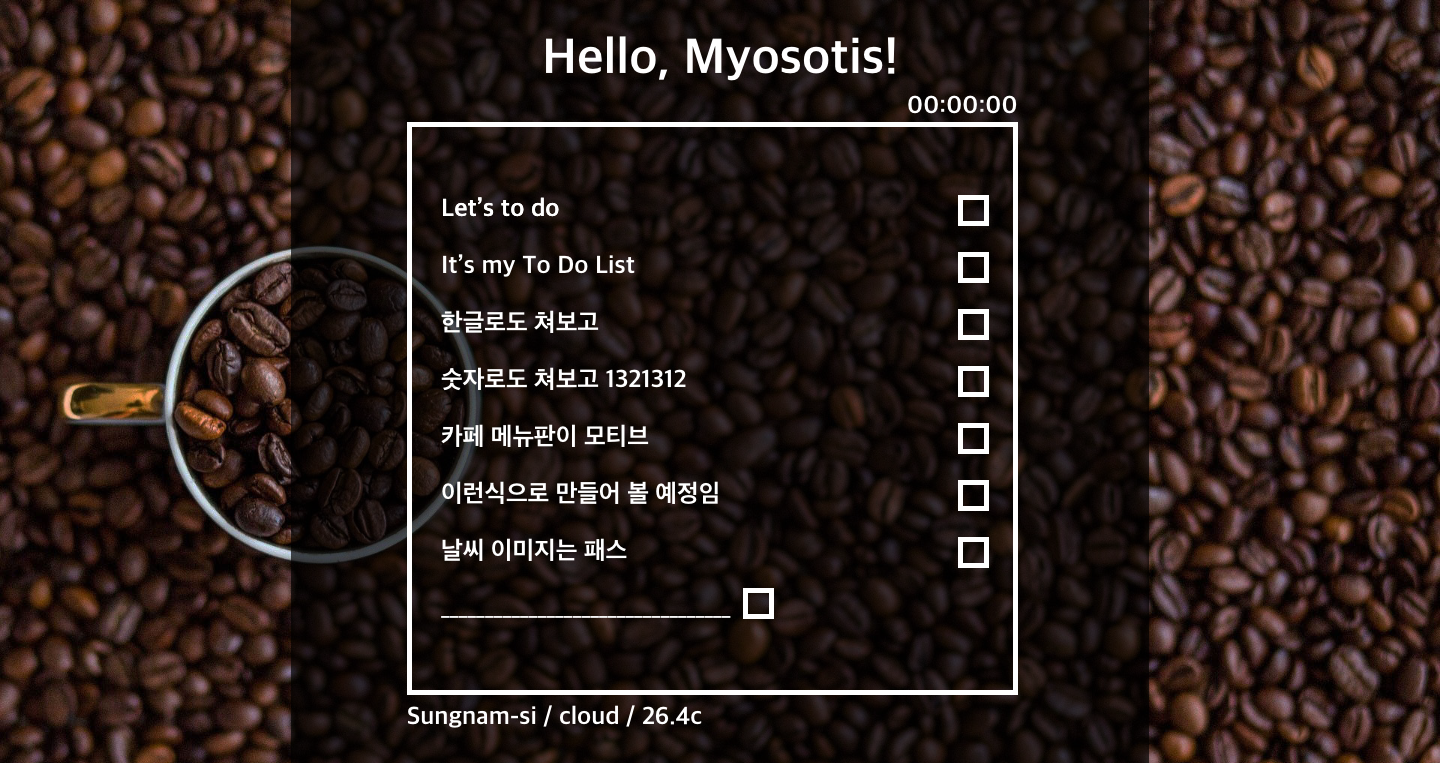
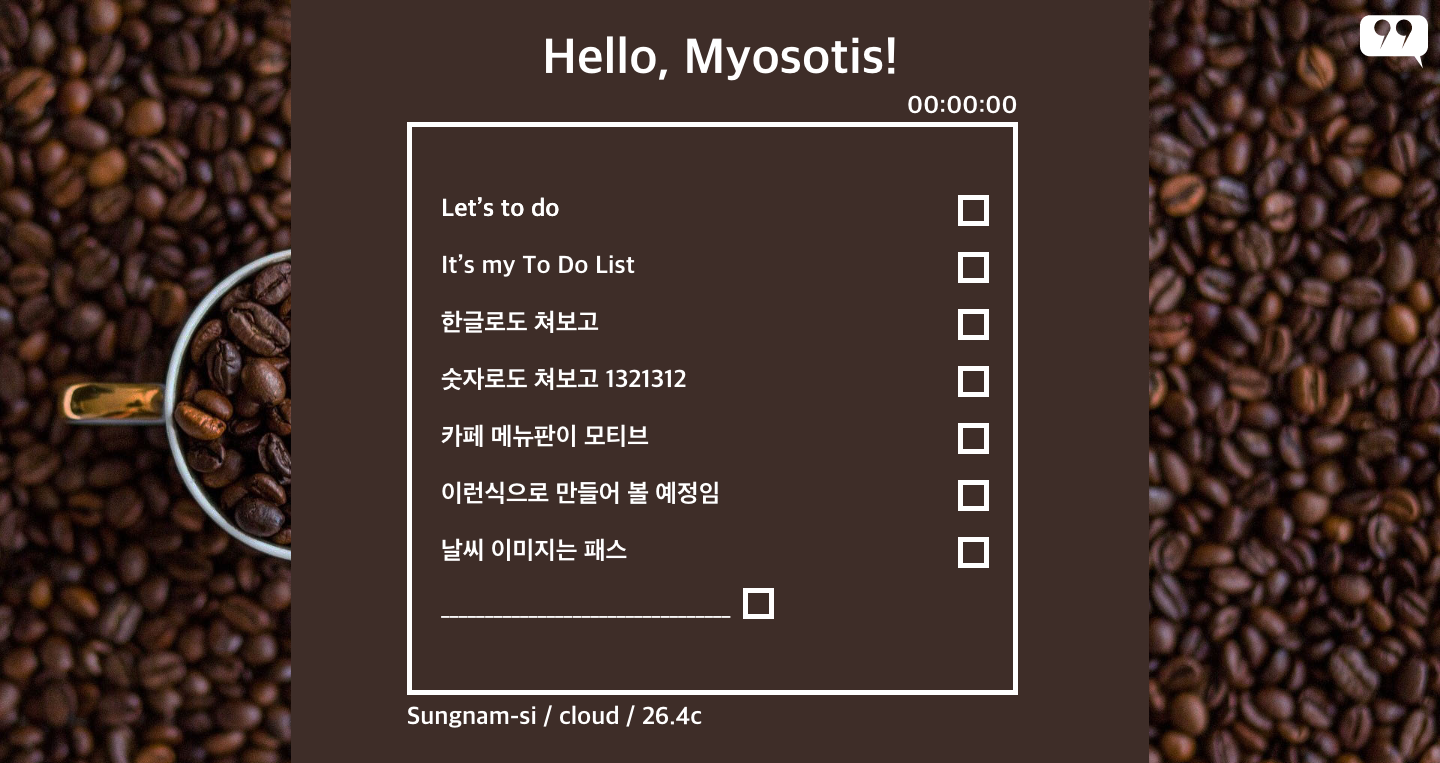
add README.md

diff --git a/css/style.css b/css/style.css
@@ -13,16 +13,7 @@ body {
     Oxygen, Ubuntu, Cantarell, "Open Sans", "Helvetica Neue", sans-serif;
 }
 
-#background {
-  margin: 0;
-}
-
-#background img {
-  position: absolute;
-  z-index: 1;
-  width: 100vw;
-  height: 100vh;
-}
+/* list background */
 
 main {
   display: flex;
@@ -37,6 +28,8 @@ main {
   min-height: 100vh;
   background-color: #3e2d28;
 }
+
+/* greeting & username */
 
 #name-container {
   display: flex;
@@ -68,11 +61,15 @@ main {
   text-decoration: line-through;
 }
 
+/* 주요 컨텐츠 (시계, 리스트, 날씨) */
+
 #main-contents_section {
   display: flex;
   align-items: center;
   justify-content: center;
 }
+
+/* clock */
 
 #clock-container {
   width: 621px;
@@ -122,6 +119,8 @@ main {
 .fa-regular {
   font-size: 25px;
 }
+
+/* todolist - input */
 
 #todo-form {
   margin-top: 15px;
@@ -183,7 +182,7 @@ main {
   justify-content: space-between;
 }
 
-/* sidebar */
+/* quotes sidebar */
 
 aside {
   z-index: 11;
@@ -262,7 +261,8 @@ aside {
   cursor: pointer;
 }
 
-/* splash */
+/* login - splash */
+
 @keyframes splash-hidden {
   to {
     visibility: hidden;
@@ -312,7 +312,6 @@ aside {
   justify-content: center;
 }
 
-/* 애니메이션 */
 .splash-none {
   animation: splash-width 3s ease-out forwards;
 }
@@ -339,7 +338,6 @@ aside {
   align-items: center;
 }
 
-/* 애니메이션 */
 .splash_logo_anime {
   animation: logo-down 1.8s ease-in-out forwards;
 }
@@ -355,6 +353,8 @@ aside {
   text-align: center;
   font-family: "Times New Roman", Times, serif;
 }
+
+/* login input */
 
 #splash_question {
   margin-top: 20px;
@@ -373,7 +373,6 @@ aside {
   position: relative;
 }
 
-/* 애니메이션 */
 .splash_question_form_anime {
   animation: splash-opacity 0.5s ease-in-out forwards;
 }
@@ -422,6 +421,8 @@ aside {
   color: white;
 }
 
+/* media query ~800px */
+
 @media screen and (max-width: 800px) {
   #background-contents {
     width: 100vw;
@@ -462,6 +463,8 @@ aside {
     padding-right: 3px;
   }
 }
+
+/* media query _mobile */
 
 @media screen and (max-width: 425px) {
   #todo-form input {

diff --git a/js/backround.js b/js/backround.js
@@ -1,6 +1,4 @@
 const images = ["img/0.jpeg", "img/1.jpeg", "img/2.jpeg", "img/3.jpeg"];
 const randomBgImg = images[Math.floor(Math.random() * images.length)];
 
-// const backgroundImg = document.createElement("img");
-// backgroundImg.src = randomBgImg;
 document.body.style.backgroundImage = `url(${randomBgImg})`;

diff --git a/index.html b/index.html
@@ -33,7 +33,6 @@
       </div>
     </div>
     <!-- 리스트 창 -->
-    <div id="background"></div>
     <main>
       <div id="background-contents">
         <div id="name-container">

diff --git a/README.md b/README.md
@@ -1,0 +1,141 @@
+# Cafe To do : 노마드코더 바닐라 JS 실습
+
+---
+
+프로젝트 이름: Cafe To Do<br />
+제작기간: 2022.08.31 ~ 2022.09.05<br />
+사용언어: HTML, CSS, Javascript
+
+---
+
+## 프로젝트 설명
+
+![투두리스트 시안.png](/%ED%88%AC%EB%91%90%EB%A6%AC%EC%8A%A4%ED%8A%B8%20%EC%8B%9C%EC%95%88.png)
+Cafe To Do 홈페이지는 학습 목적으로 제작된 To Do List 홈페이지입니다. <b>카페 메뉴판</b>을 컨셉으로 제작하였으며, 위의 이미지는 제작에 들어가기 앞서 adobe xd로 단순하게 디자인 해 본 시안입니다. 각각의 설명은 다음과 같습니다.<br />
+
+> - 배경 이미지는 새로고침 할 때마다 4개의 이미지가 랜덤으로 출력됩니다.
+> - 가장 위에 오게되는 Hello, Myosotis!은 유저 이름이 오는 위치입니다. 이름을 클릭할 경우 로그아웃됩니다.
+> - 흰색 박스 위에는 현재 날짜와 시간이 오게됩니다.
+> - 박스 안은 본격적인 할 일(to do list)를 작성하는 창입니다.
+> - 체크 박스를 클릭할 경우 할 일 리스트가 제거됩니다.
+> - 밑줄은 새로운 텍스트를 입력하는 창입니다. 입력 후 버튼을 누르면 할 일 리스트에 추가됩니다.
+> - 박스 아래에는 현재 위치와 날씨, 기온이 오게됩니다.
+> - 화면의 우측 위에는 명언을 볼 수 있는 버튼이 오게됩니다. 마우스가 올라가면 명언이 출력됩니다.
+
+이외에도 별도의 로그인 창이 존재하며, 로그인 창은 로고와 페이지 이름, 유저 이름을 적는 입력창과 버튼으로 구분되어있습니다.
+
+본 프로젝트는 노마드 코더의 '코코아톡 클론코딩'과 '바닐라 JS로 크롬 앱 만들기'의 복습을 목적으로 시작되었습니다. 여러 코드를 일부러 시도해보고 지우고를 반복해야하는 만큼 학습상의 편의를 위해 파일간 디테일한 구분에는 다소 소홀한 면이 있습니다.
+
+특히 css파일의 경우 screen, component 구분 없이 [style.css](./css/style.css)에 모두 묶여있으니 참고 바랍니다.
+
+또한 깃 허브 첫 업로드는 9월 2일로 제작 중반부터 업로드된 만큼 프로젝트의 모든 변화과정이 담겨있지는 않다는 점 역시 참고 바랍니다. 다음은 각 파일에 대한 간략한 설명과 해당 파일을 제작할 때 필자가 중요하게 여겼던 부분에 대한 개략적인 설명입니다.
+
+---
+
+# HTML
+
+본 프로젝트에서 제작한 html 파일에는 [index.html](./index.html) 파일이 있습니다.
+
+## index.html
+
+index.html파일은 페이지의 전체적인 레이아웃을 구상하며 작성되었습니다. index.html의 각 구역을 살펴보기 수월하도록 나누면 다음과 같이 나눌 수 있습니다.
+
+> - #splash-container
+>   - #splash_logo
+>   - #splash_question
+> - #backgrund
+> - main
+>   - #name-container
+>   - #clock-container
+>   - #todobox-container
+>   - #weather-container
+> - aside
+>   - #quotes-container
+
+이를 기준으로 코드를 확인한다면 조금 더 수월하게 확인할 수 있으리라 생각합니다.
+
+아이콘을 위해 [Font Awesome](https://fontawesome.com/)을 활용하였으며, 몇몇 아이콘의 경우 [Flaticon](https://www.flaticon.com/)사이트에서 이미지 파일을 다운받아 활용하였습니다.
+
+index.html은 가능한 꼼꼼하게 작성하고자 했지만 제작자의 semantic tag에 대한 이해가 부족해 부적절한 태그가 사용되었을 수 있습니다. 또한 id와 class 이름을 정함에 있어 그 기준이 다소 불분명한 부분이 있습니다. 이로인해 코드를 확인하는데 어려움이 예상됩니다.
+
+---
+
+# CSS
+
+CSS파일은 [style.css](./css/style.css)로 구성되어 있습니다.
+
+## style.css
+
+css파일은 transform, @keyframe 애니메이션을 학습하는 데 주력하였습니다.
+
+여러가지 기능을 활용하며 학습하기 위해서 단일파일로 구성하였다는 점과 html에서 id와 class를 다소 통일성없게 설정한 점 때문에 코드를 훑어보기 난해할 수 있습니다.
+
+이를 조금이나마 보완하기 위해서 각주를 이용하여 크게 구분해두었으니 참고하시면 좋을 것 같습니다. 각주의 종류는 다음과 같습니다.
+
+> - list background
+>   - greeting & username
+>   - main contents
+>     - clock
+>     - todolist
+>       - todolist-input
+>     - weather
+> - quotes sidebar
+> - login-splash
+>   - login-input
+> - media query ~800px
+> - media query_mobile
+
+Media query의 경우 좌우 길이가 ~800px인 경우와 ~425px인 경우로 구별됩니다. 전자는 페이지를 작게 보는 사람을 위해서, 후자는 모바일을 활용하여 페이지를 살펴보는 경우를 대비하기 위함입니다. 그러나 좌우 길이 400px 이하의 환경에서는 제대로된 동작을 보장하지 않습니다.
+
+---
+
+# Javascript
+
+Javascript파일은 js폴더의 [background.js](/js/backround.js), [clock.js](/js/clock.js), [login-splash.js](/js/login-splash.js), [quotes.js](/js/quotes.js), [todolist.js](/js/todolist.js), [weather.js](/js/weather.js) 6개의 js파일로 나누어집니다.
+
+노마드 코더 사이트의 [바닐라 JS로 구글 앱 만들기](https://nomadcoders.co/javascript-for-beginners) 강의의 내용을 가능한 충실하게 따르는 것을 목적으로 제작되었습니다. 때문에 강의의 내용 대비 큰 변화는 없으나, 이벤트 실행 시 애니메이션이 동작하는 등의 몇 가지 작업이 추가되었습니다.
+
+파일별 내용의 요약은 다음과 같습니다.
+
+---
+
+## [background.js](/js/backround.js)
+
+> [0.jpeg](/img/0.jpeg), [1.jpeg](/img/1.jpeg), [2.jpeg](/img/2.jpeg), [3.jpeg](/img/3.jpeg) 네 개의 이미지 파일 중 하나를 선택하여 body태그에 background-image로서 부여하는 역할을 합니다.
+
+---
+
+## [clock.js](/js/clock.js)
+
+> todo-box위의 #clock과 #date에 현재 날짜와 현재 시간을 부여합니다.
+
+---
+
+## [login-splash.js](/js/login-splash.js)
+
+> 로그인 정보가 input되면 이를 #greeting-span의 유저 이름으로 보내며, 로그인 정보가 입력되는 경우 작동할 애니메이션, splash창의 숨김 처리까지 로그인창의 동작에 대한 전반적인 내용을 관리합니다.
+
+---
+
+## [quotes.js](js/quotes.js)
+
+> 11개 명언 중 랜덤하게 하나를 뽑아 출력합니다. 11개의 명언은 네이버 [명언 정보](https://search.naver.com/search.naver?where=nexearch&sm=top_hty&fbm=1&ie=utf8&query=%EB%AA%85%EC%96%B8)에서 11개를 골라 가져왔습니다.
+
+---
+
+## [todolist.js](js/todolist.js)
+
+> 투 두 리스트의 가장 핵심적인 javascript파일로 입력된 값을 저장하고, 리스트에 표시하며, 이를 제거하며, 새로고침을 하더라도 값이 저장되어있도록 하는 모든 과정이 포함되어 있습니다. 가장 관심을 갖고 제작한 파일이지만 localStorage를 다루는 테크닉이 부족해 추가 공부가 가장 필요한 부분이기도 합니다.
+
+---
+
+## [weather.js](/js/weather.js)
+
+> todo-box하단에 위치정보와 날씨, 기온을 추가합니다. [Open Weather Map](https://openweathermap.org/)의 API를 활용하여 제작되었습니다.
+
+---
+
+# 결과물 이미지
+
+![로그인창](/%EA%B2%B0%EA%B3%BC%EC%9D%B4%EB%AF%B8%EC%A7%80.png)
+![메인창](/%EA%B2%B0%EA%B3%BC%EC%9D%B4%EB%AF%B8%EC%A7%802.png)
